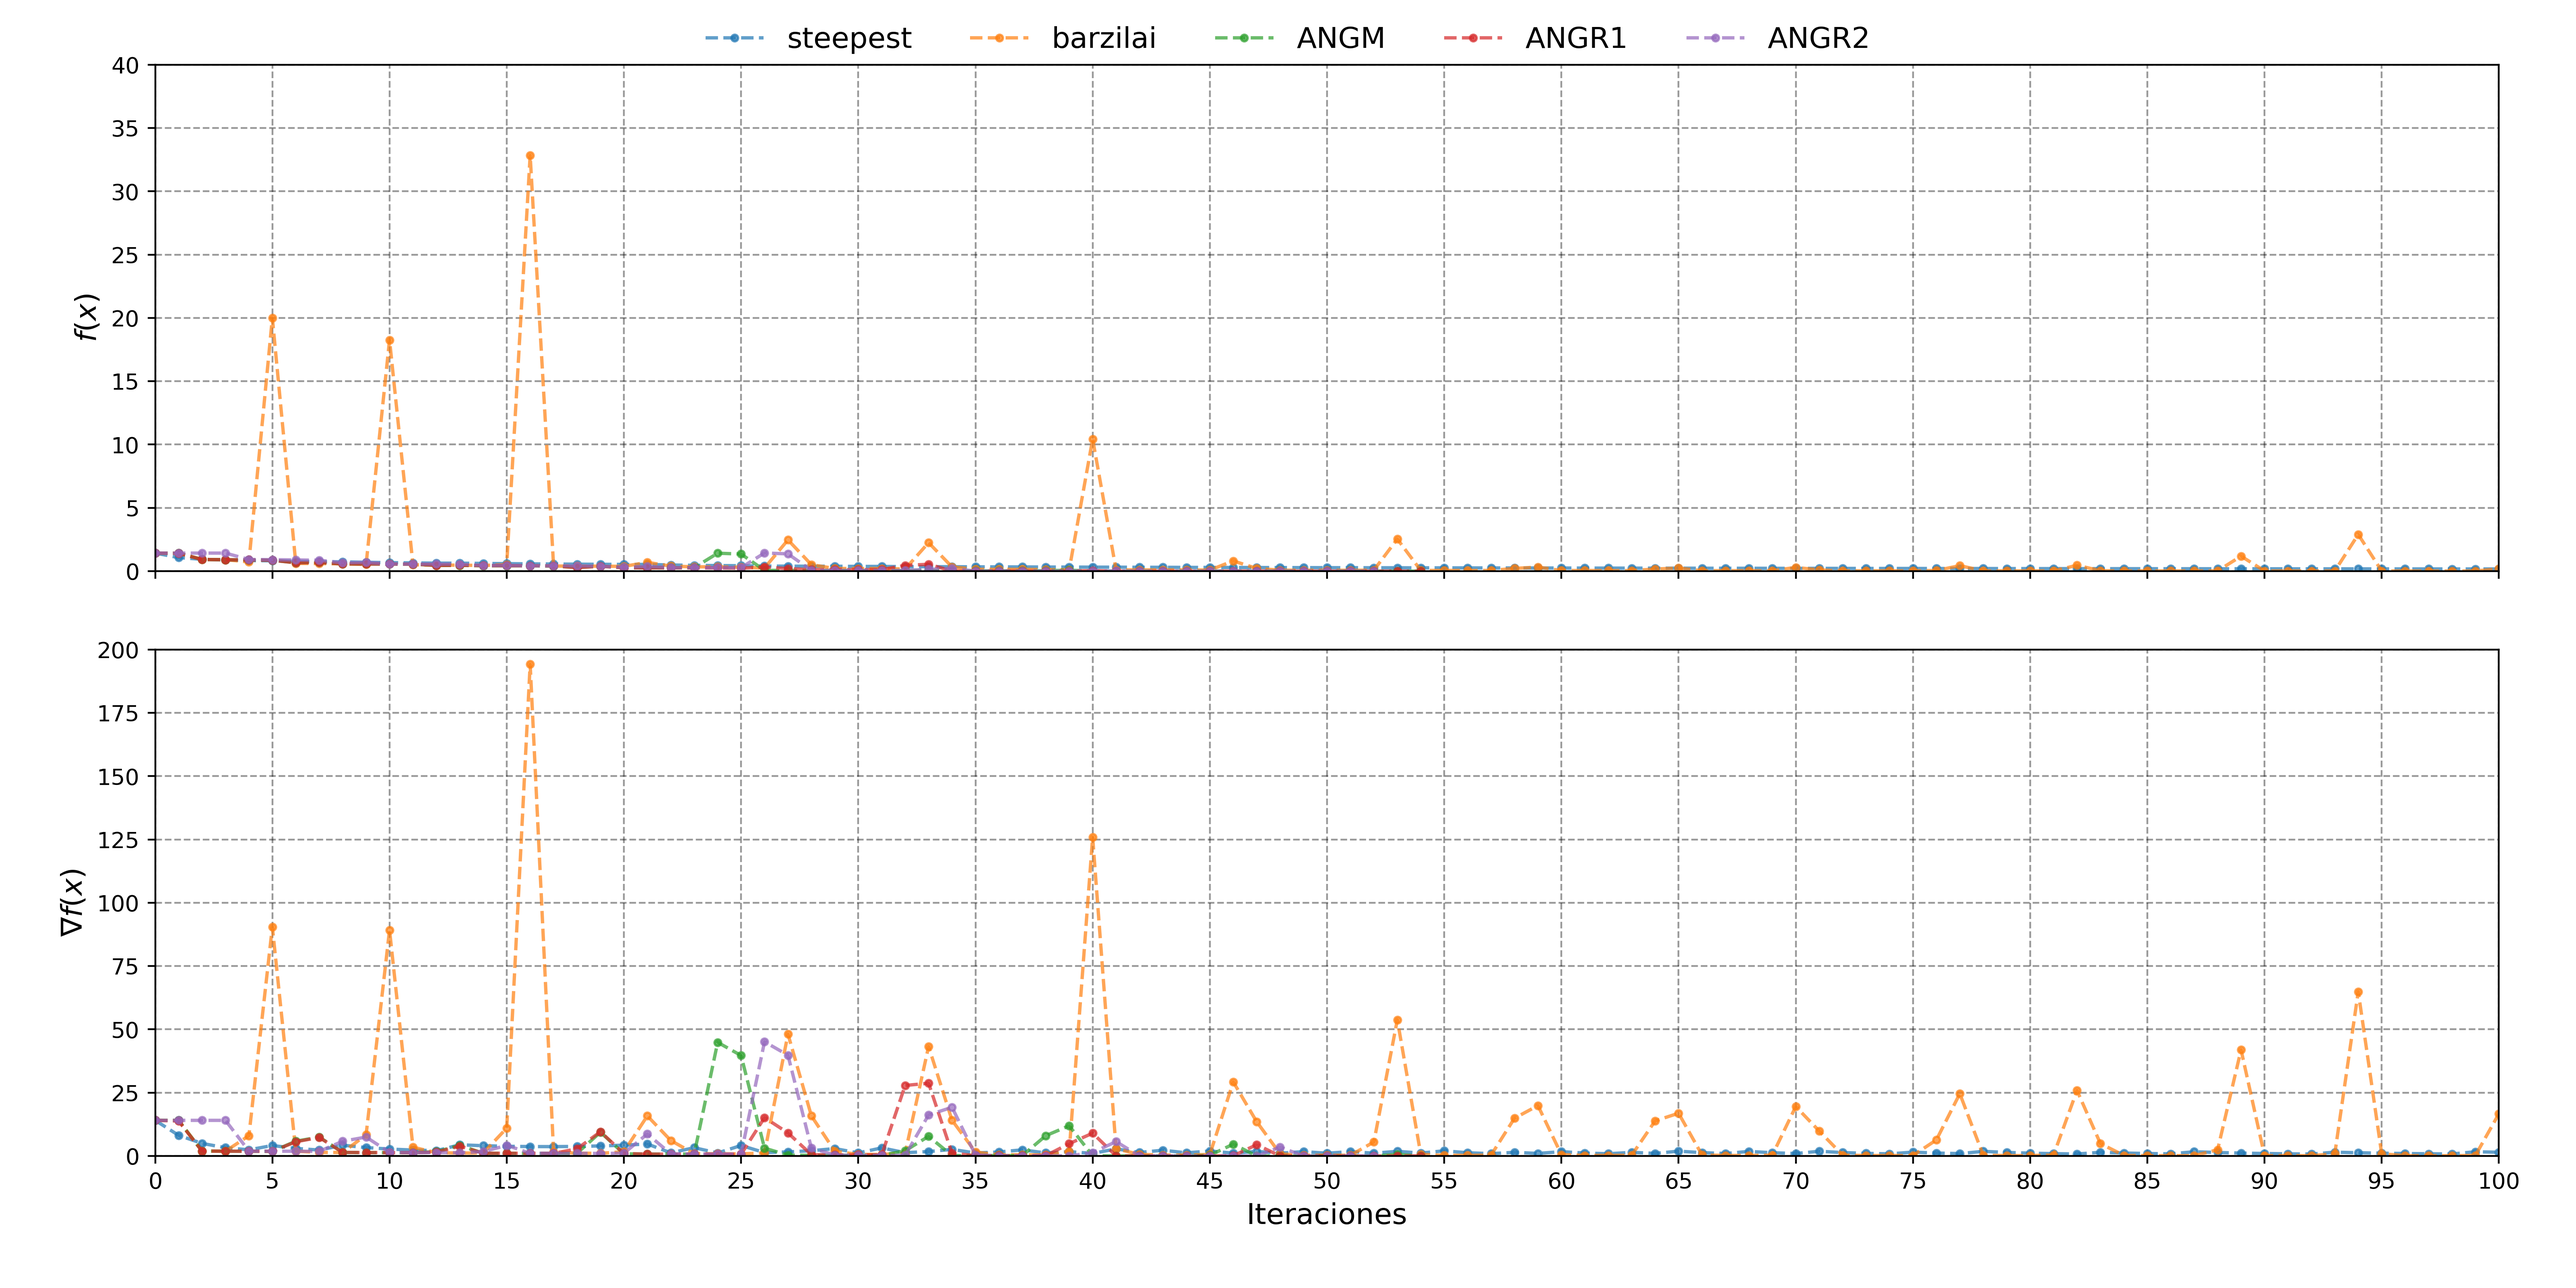
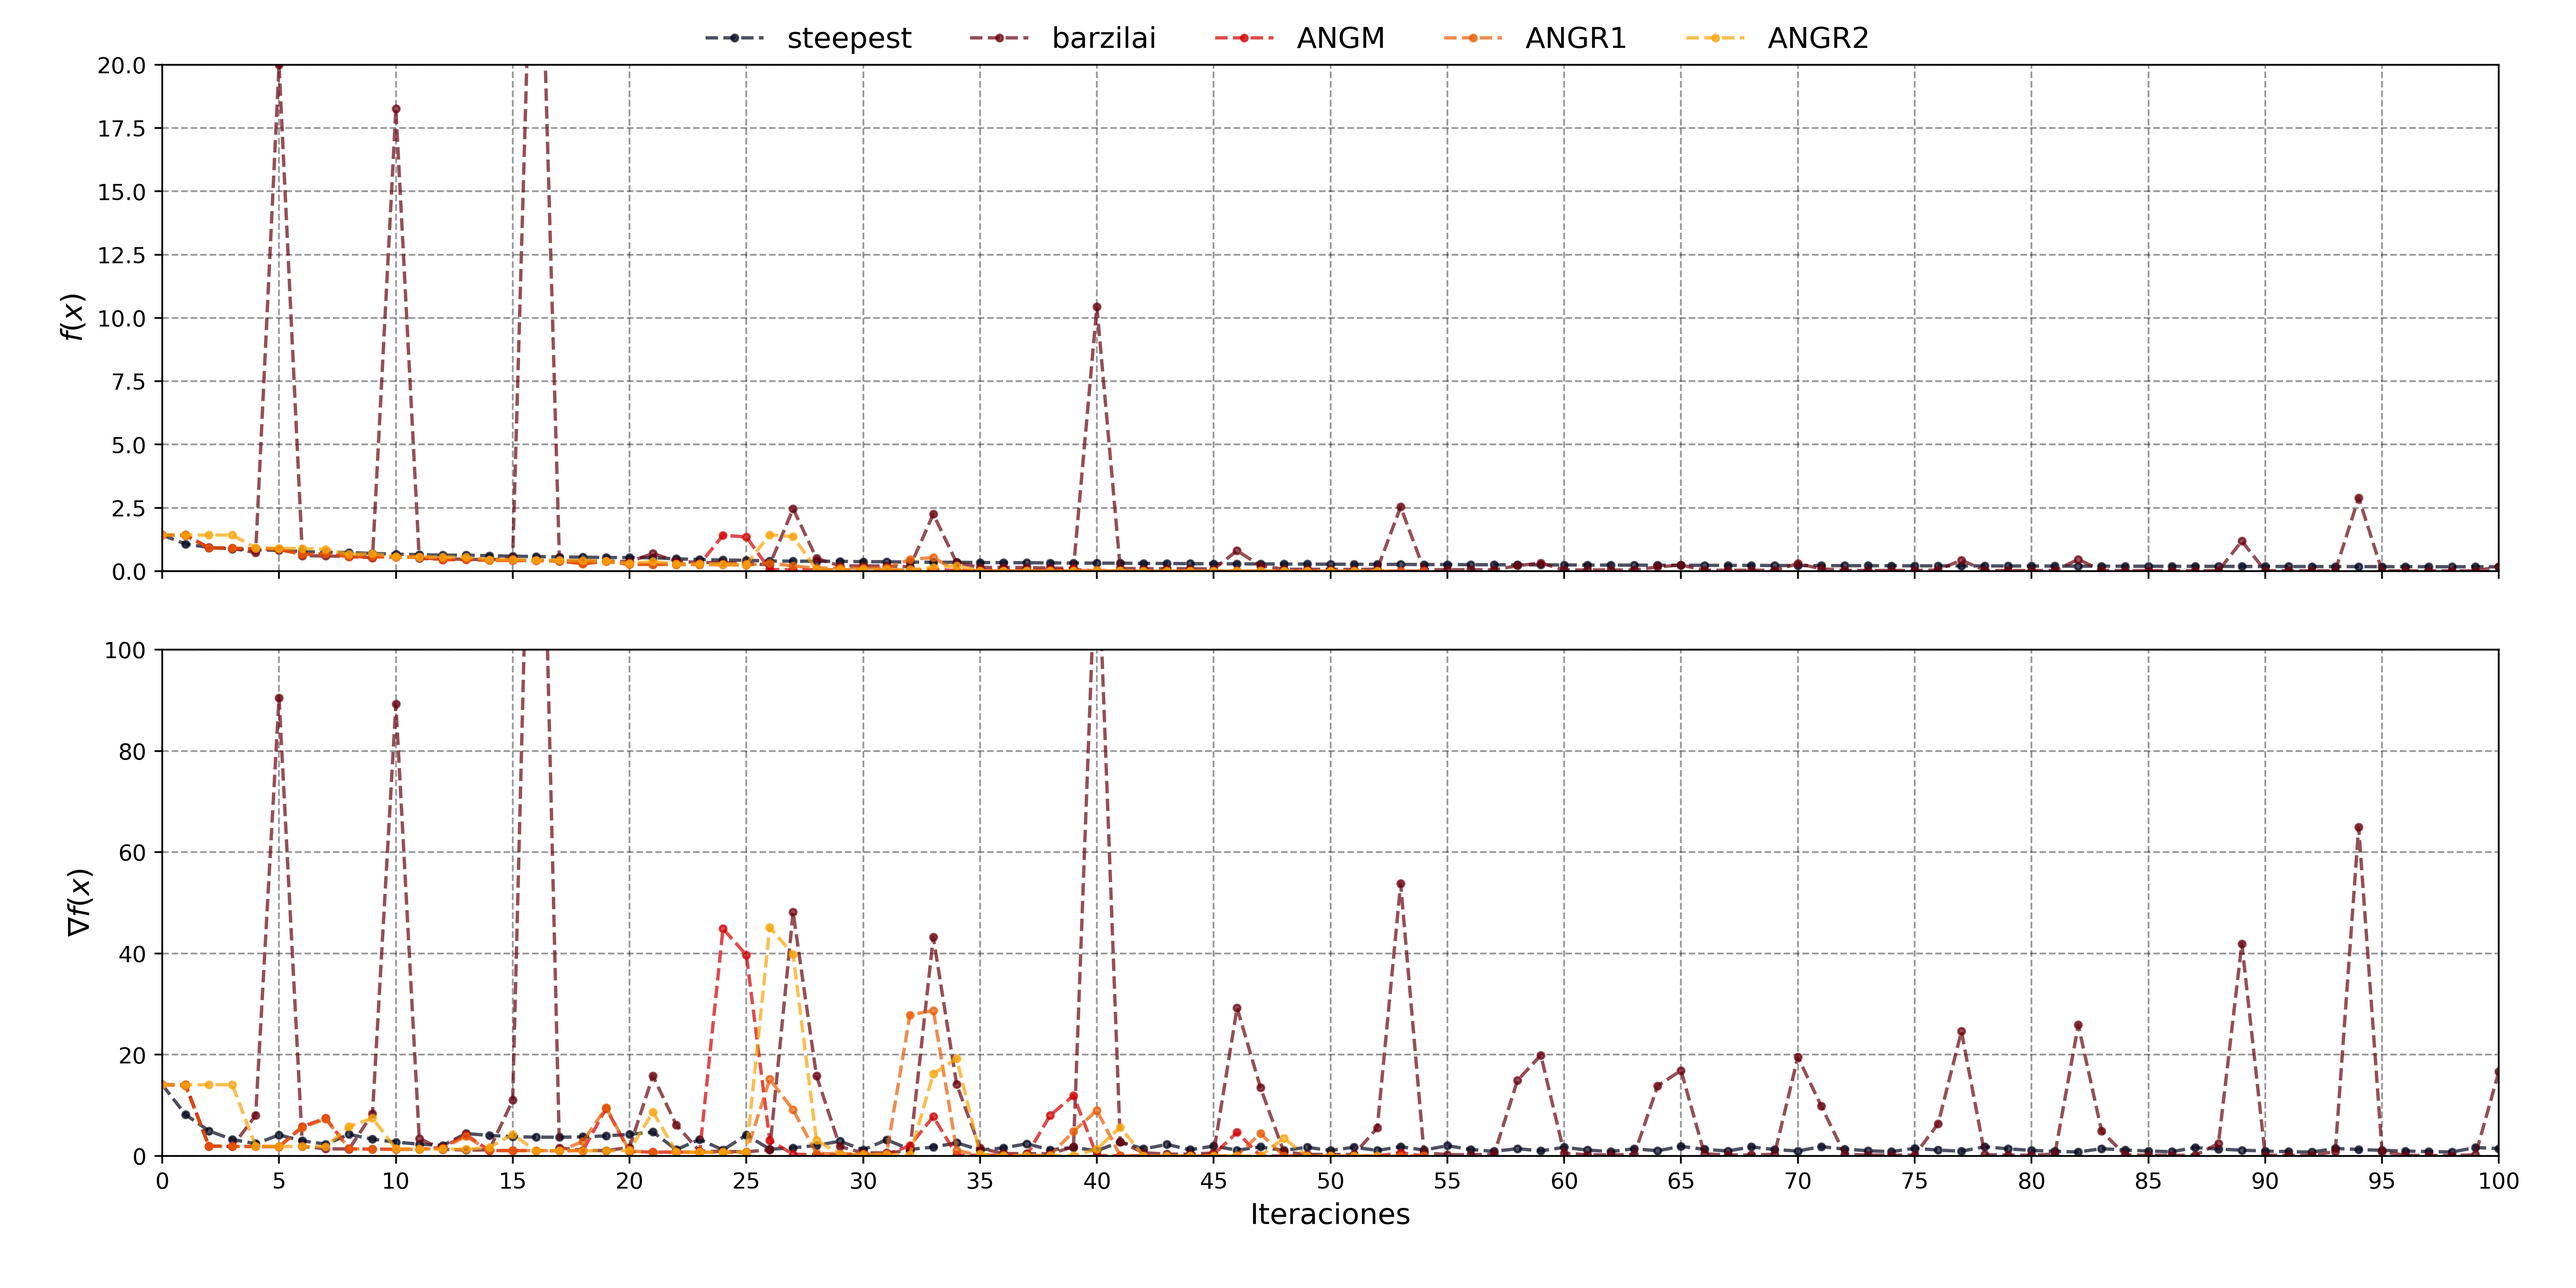
Add function track to quadratic equation

diff --git a/Scripts/Graphics_function_track.py b/Scripts/Graphics_function_track.py
@@ -11,78 +11,97 @@ from numpy import array
 
 
 def create_temporal_params(x: array) -> dict:
-    params = {"x": x}
+    params = {"x": x, "lambda": 10}
     return params
 
 
-methods = [
-    "steepest",
-    "barzilai",
-    "ANGM",
-    "ANGR1",
-    "ANGR2",
-]
+methods = {
+    "steepest": "#03071E",
+    "barzilai": "#6A040F",
+    "ANGM": "#D00000",
+    "ANGR1": "#E85D04",
+    "ANGR2": "#FAA307",
+}
+
+datasets = {"rosembrock": {"x ticks": range(0, 105, 5),
+                           "x lim": 100,
+                           "y1 lim": 20,
+                           "y2 lim": 100,
+                           },
+            "quadratic": {"x ticks": range(0, 22, 2),
+                          "x lim": 20,
+                          "y1 lim": 2,
+                          "y2 lim": 10,
+                          "lambda": 10,
+                          },
+            }
 
 params = get_params()
-params["function name"] = "rosembrock"
-fig, (ax1, ax2) = plt.subplots(2, 1,
-                               sharex=True,
-                               figsize=(16, 8))
-for method in methods:
-    params["method"] = method
-    params = _define_function_params(params)
-    function = functions_class(params)
-    algorithm = optimize_method_position_track(params)
-    folder = algorithm.create_folder_results()
-    filename = "{}.csv".format(params["search algorithm"])
+for function_name in datasets:
+    params["function name"] = function_name
+    dataset = datasets[params["function name"]]
+    params.update(dataset)
+    fig, (ax1, ax2) = plt.subplots(2, 1,
+                                   sharex=True,
+                                   figsize=(16, 8))
+    for method in methods:
+        params["method"] = method
+        color = methods[method]
+        params = _define_function_params(params)
+        function = functions_class(params)
+        algorithm = optimize_method_position_track(params)
+        folder = algorithm.create_folder_results()
+        filename = "{}.csv".format(params["search algorithm"])
+        filename = join(folder,
+                        filename)
+        data = read_csv(filename)
+        positions = list(zip(data["0"],
+                             data["1"]))
+        data["x"] = positions
+        data["x"] = data["x"].apply(lambda x: array(x))
+        data["function"] = data["x"].apply(
+            lambda x: function.f(create_temporal_params(x)))
+        data["gradient"] = data["x"].apply(
+            lambda x: norm(function.gradient(x, create_temporal_params(x))))
+        ax1.plot(data["function"],
+                 marker=".",
+                 ls="--",
+                 alpha=0.7,
+                 label=method,
+                 color=color)
+        ax1.grid(ls="--",
+                 color="#000000",
+                 alpha=0.4)
+        ax1.set_xlim(0, dataset["x lim"])
+        ax1.set_xticks([value
+                        for value in dataset["x ticks"]])
+        ax1.set_ylabel("$f(x)$",
+                       fontsize=13)
+        ax1.set_ylim(0, dataset["y1 lim"])
+        ax2.plot(data["gradient"],
+                 marker=".",
+                 ls="--",
+                 color=color,
+                 alpha=0.7)
+        ax2.grid(ls="--",
+                 color="#000000",
+                 alpha=0.4)
+        ax2.set_xlabel("Iteraciones",
+                       fontsize=13)
+        ax2.set_ylabel("$\\nabla f(x)$",
+                       fontsize=13)
+        ax2.set_ylim(0, dataset["y2 lim"])
+    fig.legend(ncol=5,
+               fontsize=13,
+               frameon=False,
+               loc="upper center")
+    plt.tight_layout(pad=2.5)
+    filename = "{}.png".format(params["function name"])
+    folder = join(params["path graphics"],
+                  "function")
+    makedirs(folder,
+             exist_ok=True)
     filename = join(folder,
                     filename)
-    data = read_csv(filename)
-    positions = list(zip(data["0"],
-                         data["1"]))
-    data["x"] = positions
-    data["x"] = data["x"].apply(lambda x: array(x))
-    data["function"] = data["x"].apply(
-        lambda x: function.f(create_temporal_params(x)))
-    data["gradient"] = data["x"].apply(
-        lambda x: norm(function.gradient(x, create_temporal_params(x))))
-    ax1.plot(data["function"],
-             marker=".",
-             ls="--",
-             alpha=0.7,
-             label=method)
-    ax1.grid(ls="--",
-             color="#000000",
-             alpha=0.4)
-    ax1.set_xlim(0, 100)
-    ax1.set_xticks([value
-                    for value in range(0, 105, 5)])
-    ax1.set_ylabel("$f(x)$",
-                   fontsize=13)
-    ax1.set_ylim(0, 40)
-    ax2.plot(data["gradient"],
-             marker=".",
-             ls="--",
-             alpha=0.7)
-    ax2.grid(ls="--",
-             color="#000000",
-             alpha=0.4)
-    ax2.set_xlabel("Iteraciones",
-                   fontsize=13)
-    ax2.set_ylabel("$\\nabla f(x)$",
-                   fontsize=13)
-    ax2.set_ylim(0, 200)
-fig.legend(ncol=5,
-           fontsize=13,
-           frameon=False,
-           loc="upper center")
-plt.tight_layout(pad=2.5)
-filename = "{}.png".format(params["function name"])
-folder = join(params["path graphics"],
-              "function")
-makedirs(folder,
-         exist_ok=True)
-filename = join(folder,
-                filename)
-plt.savefig(filename,
-            dpi=400)
+    plt.savefig(filename,
+                dpi=400)
